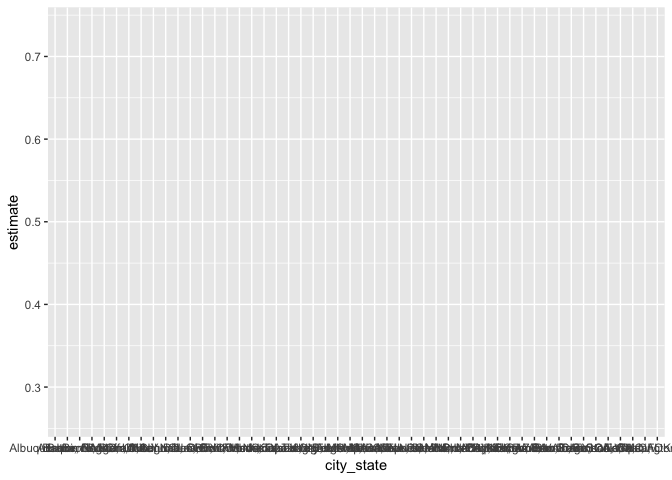
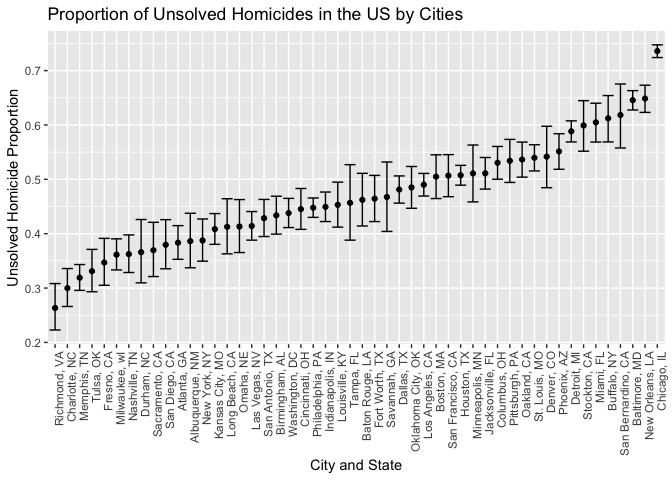
Final HW5

diff --git a/p8105_5.md b/p8105_5.md
@@ -379,7 +379,19 @@ Create a plot that shows the estimates and CIs for each city – check out geom\
 
 ``` r
 prop_unnest %>%
-  ggplot(aes(x = city_state, y = estimate))  
+  mutate(city_state = fct_reorder(city_state, estimate)) %>%
+  ggplot(aes(x = city_state, y = estimate)) +
+  geom_point() + 
+  geom_errorbar(aes(min = conf.low, max = conf.high)) +
+  labs(title = "Proportion of Unsolved Homicides in the US by Cities",
+       x = "City and State",
+       y = "Unsolved Homicide Proportion") + 
+  theme(axis.text.x = element_text(angle = 90, hjust = 1)) +
+  viridis::scale_color_viridis(
+    name = "Day", 
+    discrete = TRUE)
 ```
 
 ![](p8105_5_files/figure-markdown_github/unnamed-chunk-8-1.png)
+
+From the `Proportion of Unsolved Homicides in the US by Cities` plot above, we can see that the city with the lowest proportion of unsolved homicides is Richmond, VA and the city with the highest proportion is Chicago, Il. In addition to having the highest proportion, it has the smallest confidence interval length that does not overlap with any of the other cities.
